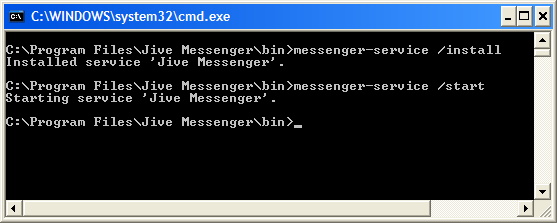
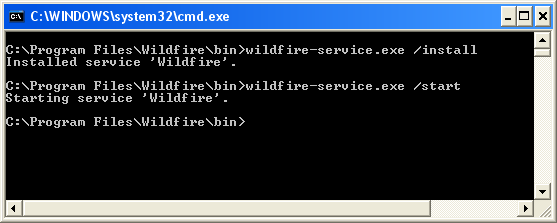
Updated screenshots with new name.
git-svn-id: http://svn.igniterealtime.org/svn/repos/messenger/trunk@3224 b35dd754-fafc-0310-a699-88a17e54d16e

diff --git a/documentation/docs/install-guide.html b/documentation/docs/install-guide.html
@@ -124,7 +124,7 @@ setting up the server:
 
 <p>
 <div align="center">
-<img src="images/launcher.png" alt="Wildfire Launcher" width="323" height="277" align="center">
+<img src="images/launcher.png" alt="Wildfire Launcher" width="400" height="300" align="center">
 </div>
 </p>
 
